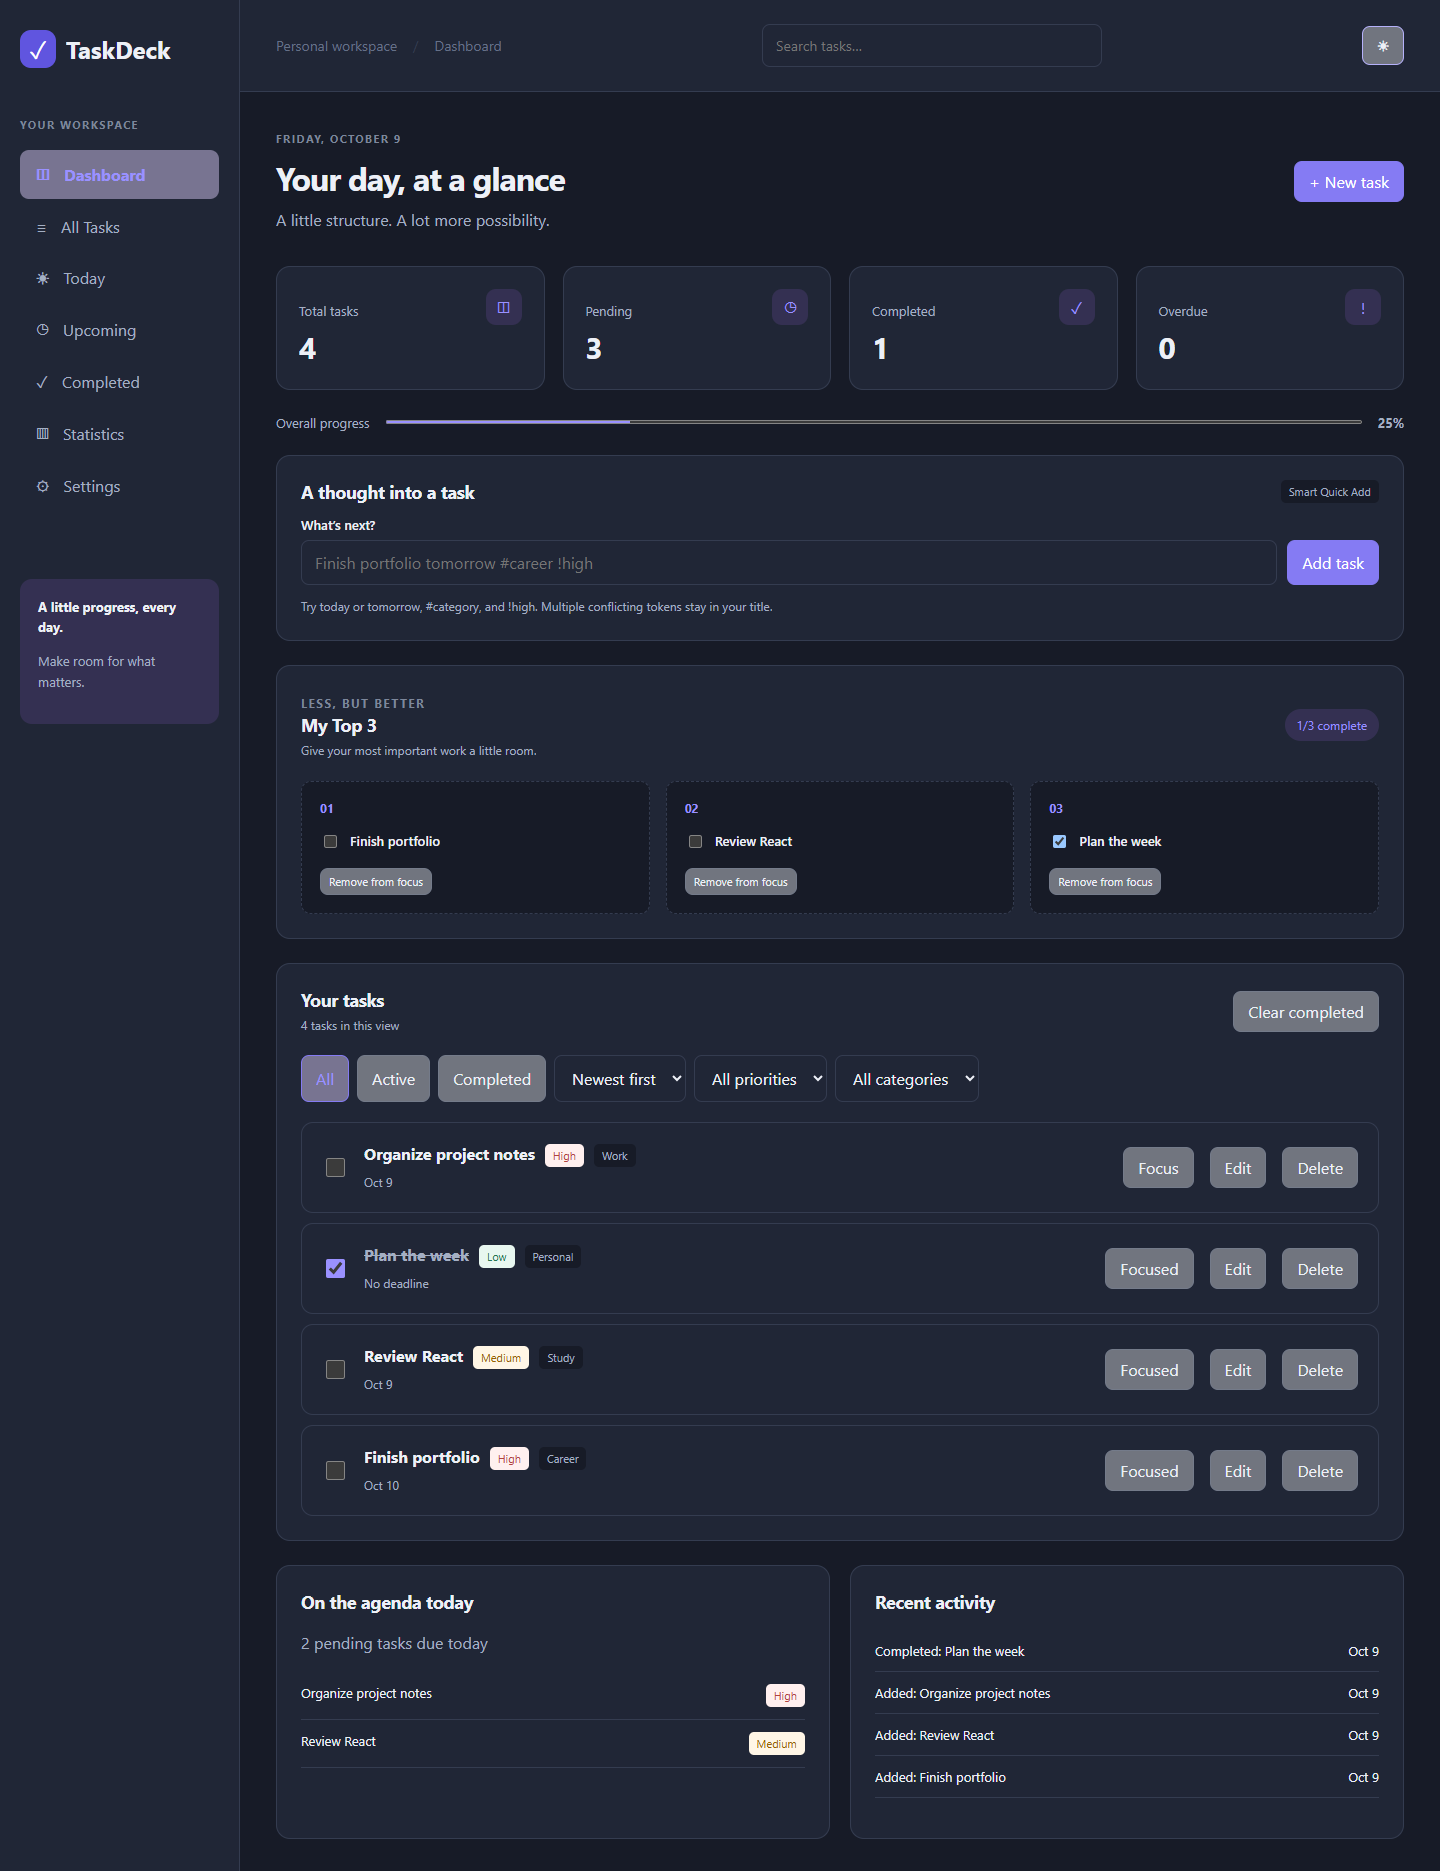
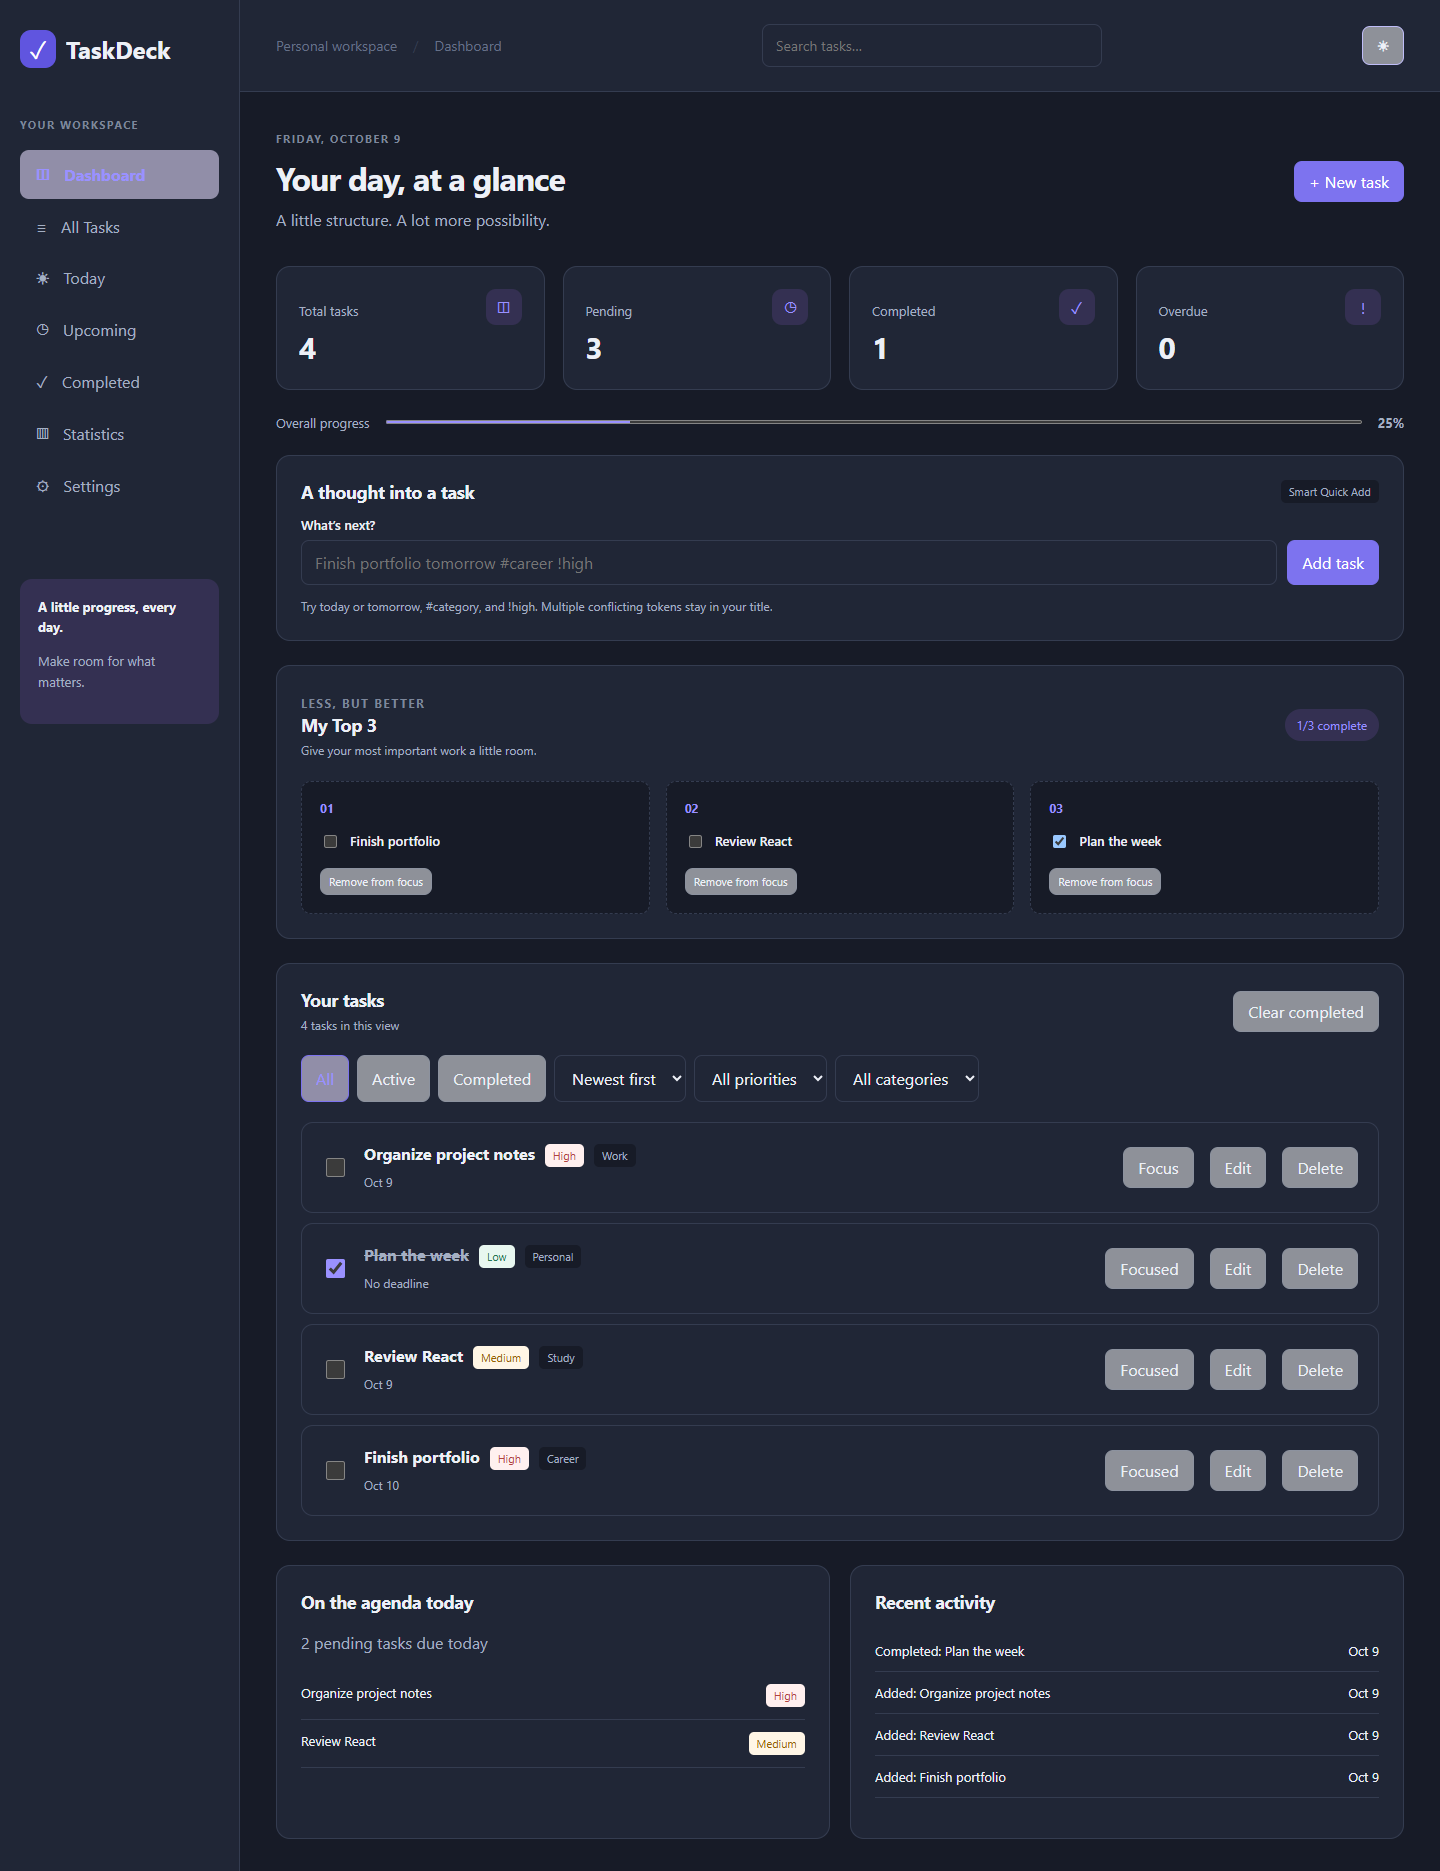
chore: prepare TaskDeck production release and CI

diff --git a/index.html b/index.html
@@ -4,7 +4,12 @@
     <meta charset="UTF-8" />
     <link rel="icon" type="image/svg+xml" href="/favicon.svg" />
     <meta name="viewport" content="width=device-width, initial-scale=1.0" />
-    <title>react-todo-app</title>
+    <meta
+      name="description"
+      content="TaskDeck: organize your tasks, focus on your daily Top 3, and track your progress. A private, browser-based productivity workspace."
+    />
+    <meta name="theme-color" content="#6055df" />
+    <title>TaskDeck | Your personal productivity workspace</title>
   </head>
   <body>
     <div id="root"></div>

diff --git a/vite.config.ts b/vite.config.ts
@@ -4,8 +4,5 @@ import { defineConfig } from 'vite'
 
 // https://vite.dev/config/
 export default defineConfig({
-  plugins: [
-    react(),
-    babel({ presets: [reactCompilerPreset()] })
-  ],
+  plugins: [react(), babel({ presets: [reactCompilerPreset()] })],
 })
